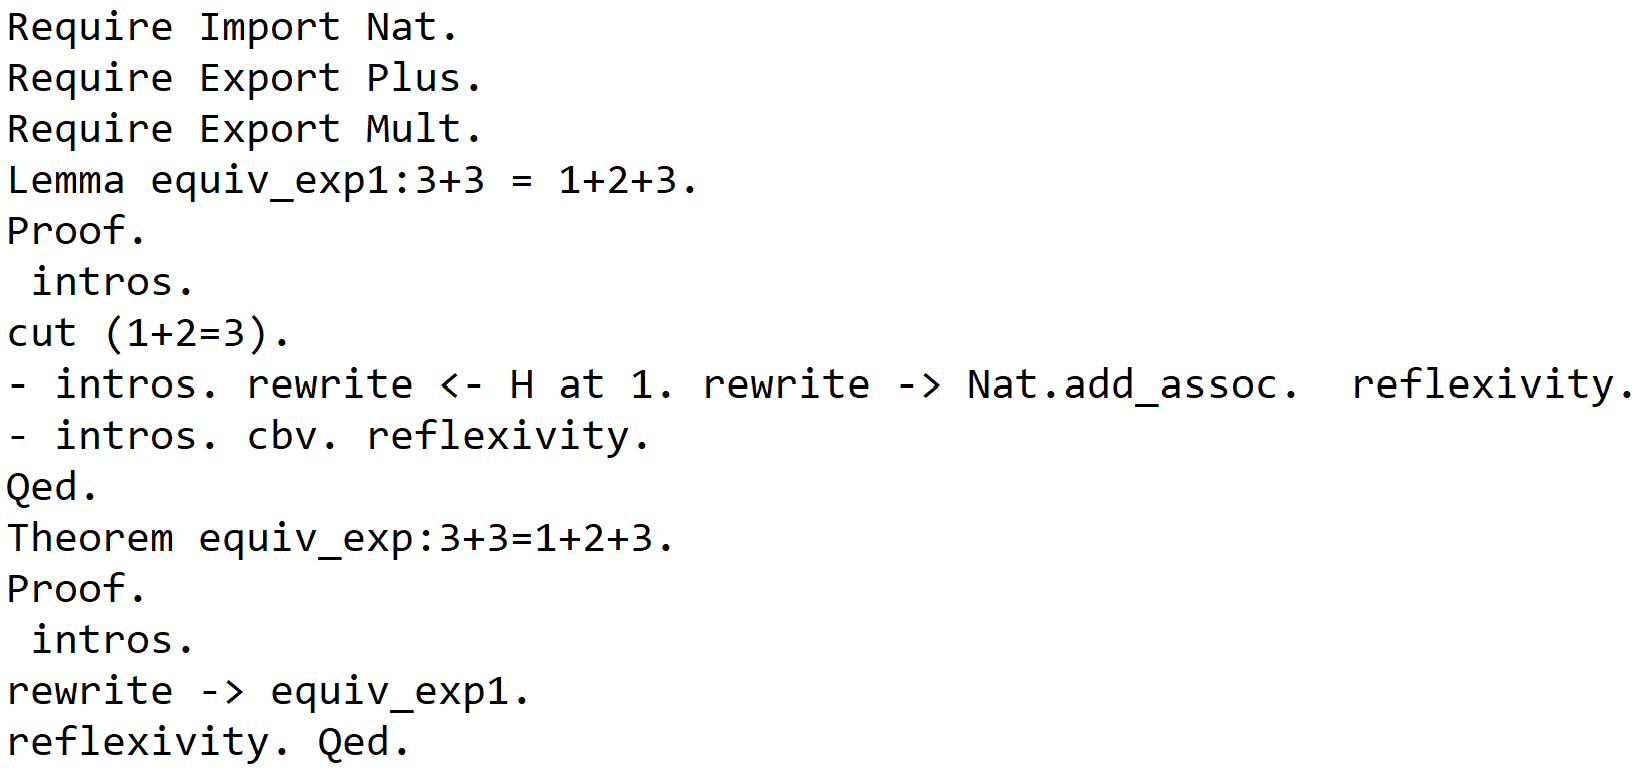
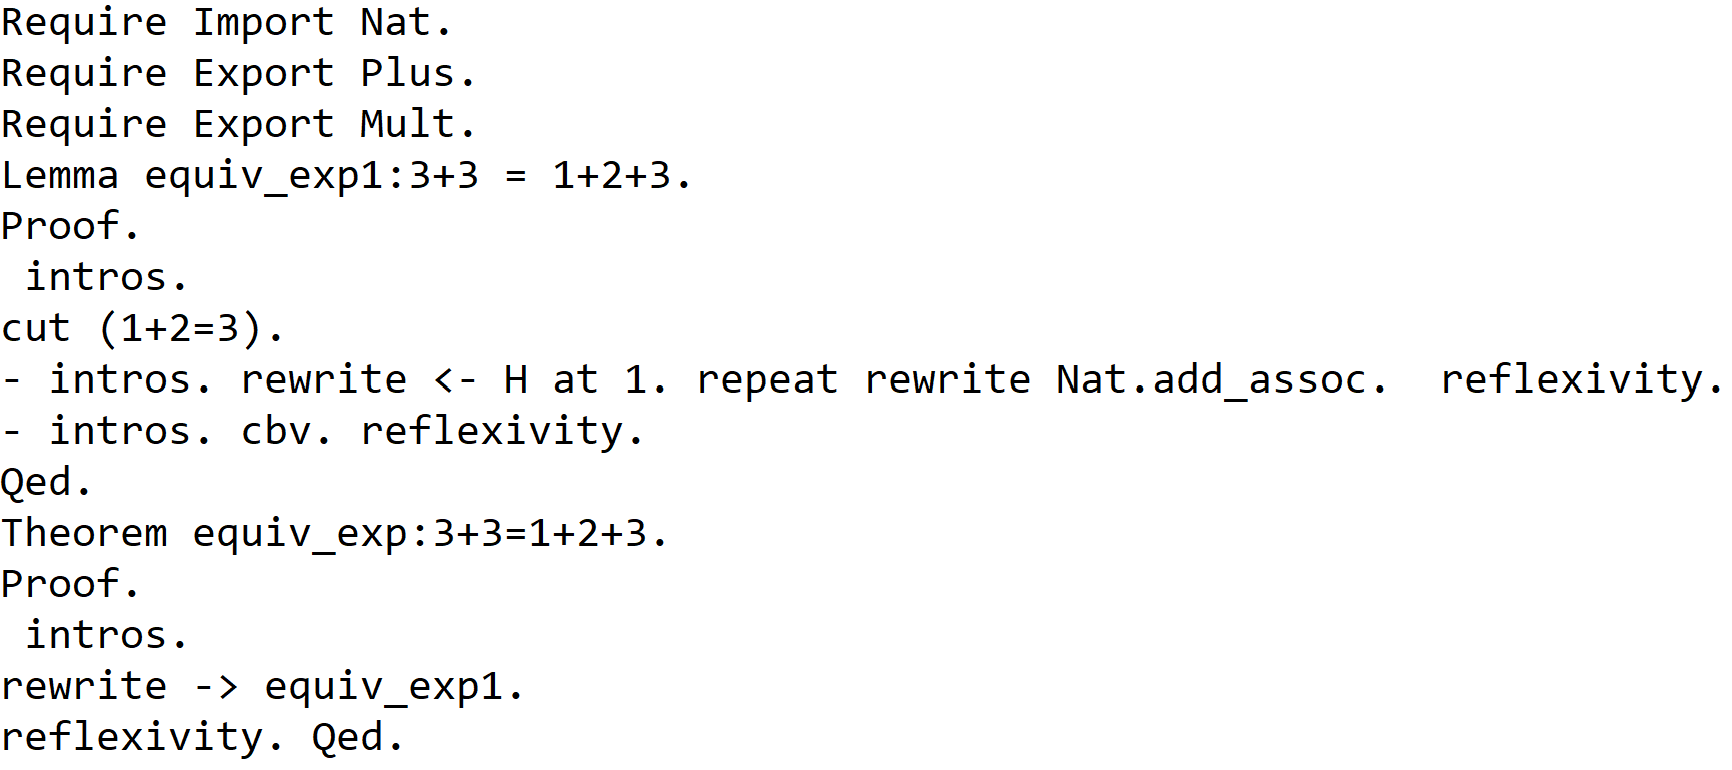
Fix subtraction and addition Associativity

diff --git a/script.js b/script.js
@@ -324,9 +324,9 @@ class Ast {
                 }
                 let leftVal = expression[i - 1].val;
                 //Handle subtraction on left
-                if (expression[i - 1].val == "-") {
+                if (expression[i - 2].val == "-") {
                     leftVal = parseInt(leftVal) > 0 ? "-" + leftVal : leftVal;
-                    expression[i - 1].val = "+";
+                    expression[i - 2].val = "+";
                 }
                 leftVal = parseInt(leftVal);
                 
@@ -350,7 +350,7 @@ class Ast {
                 switch (node.val) {
                     case "+":
                         //Handles the parentheses the '+' rewrite adds
-                        this.assoc = "rewrite -> Nat.add_assoc. ";
+                        this.assoc = "repeat rewrite Nat.add_assoc. ";
                         //The operation that was done, will be placed in the cut tactic
                         this.cut = leftVal + "+" + rightVal;
                         //Result of the '+' op
